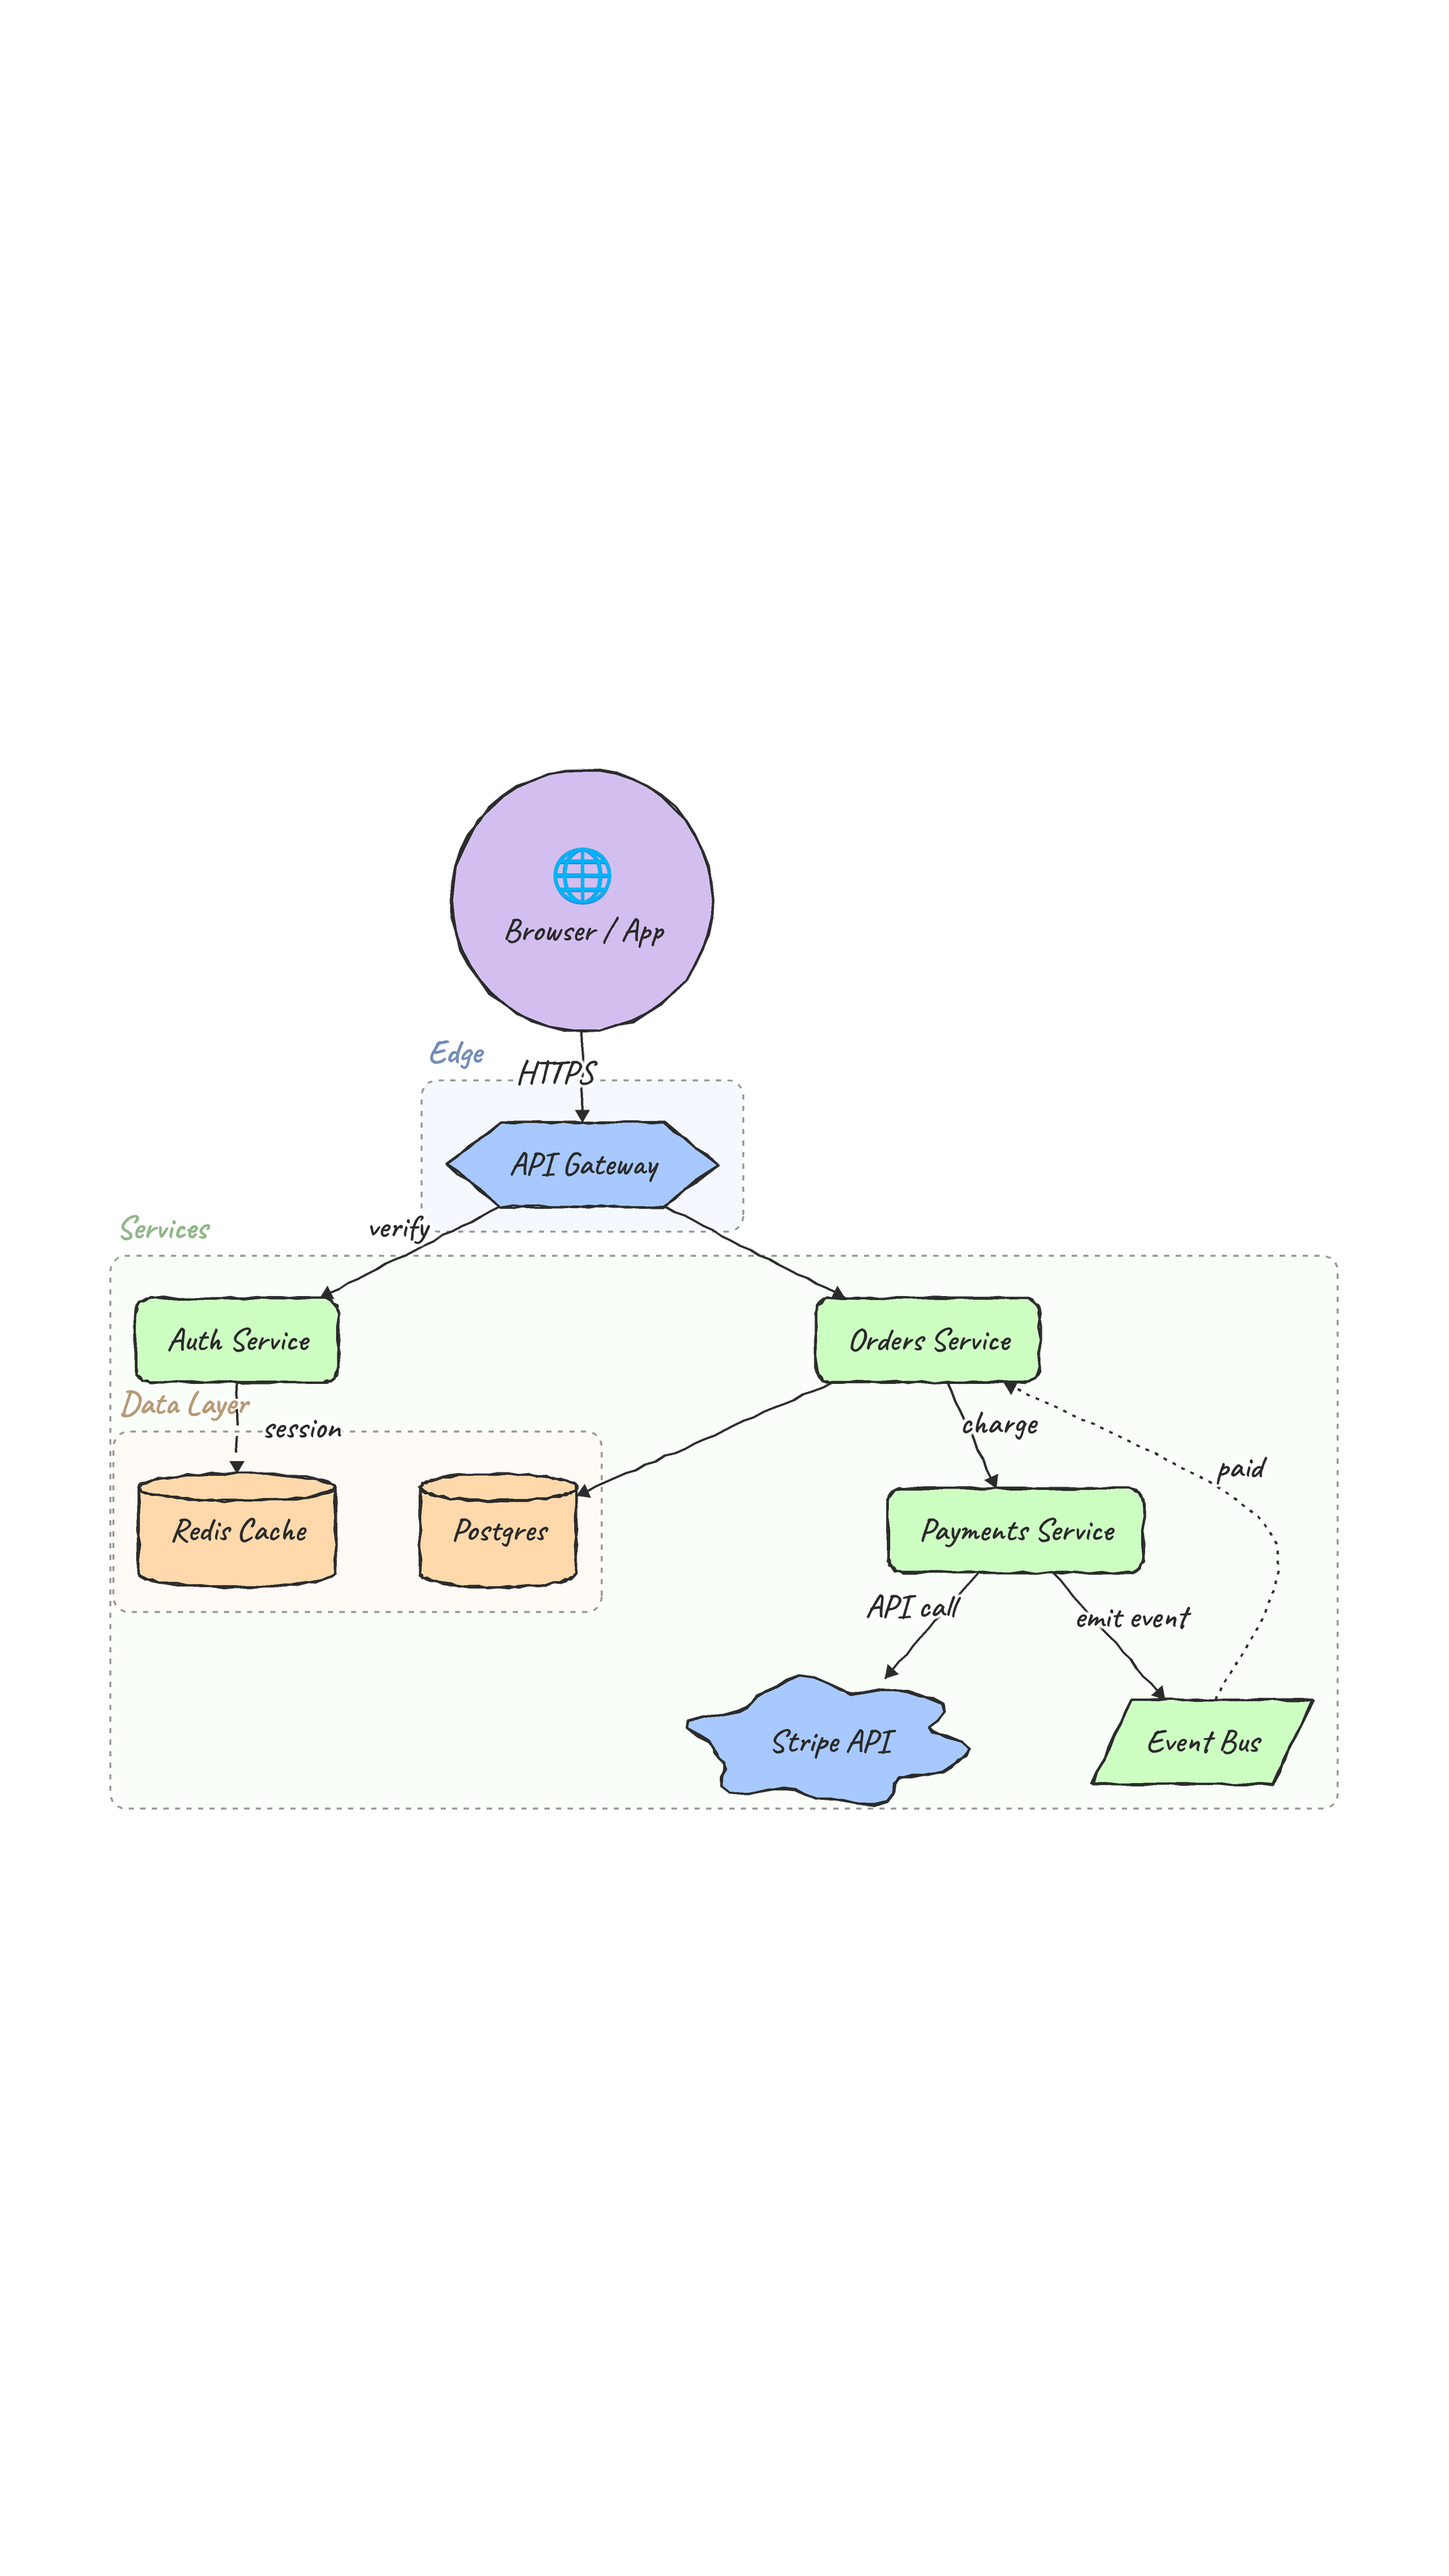
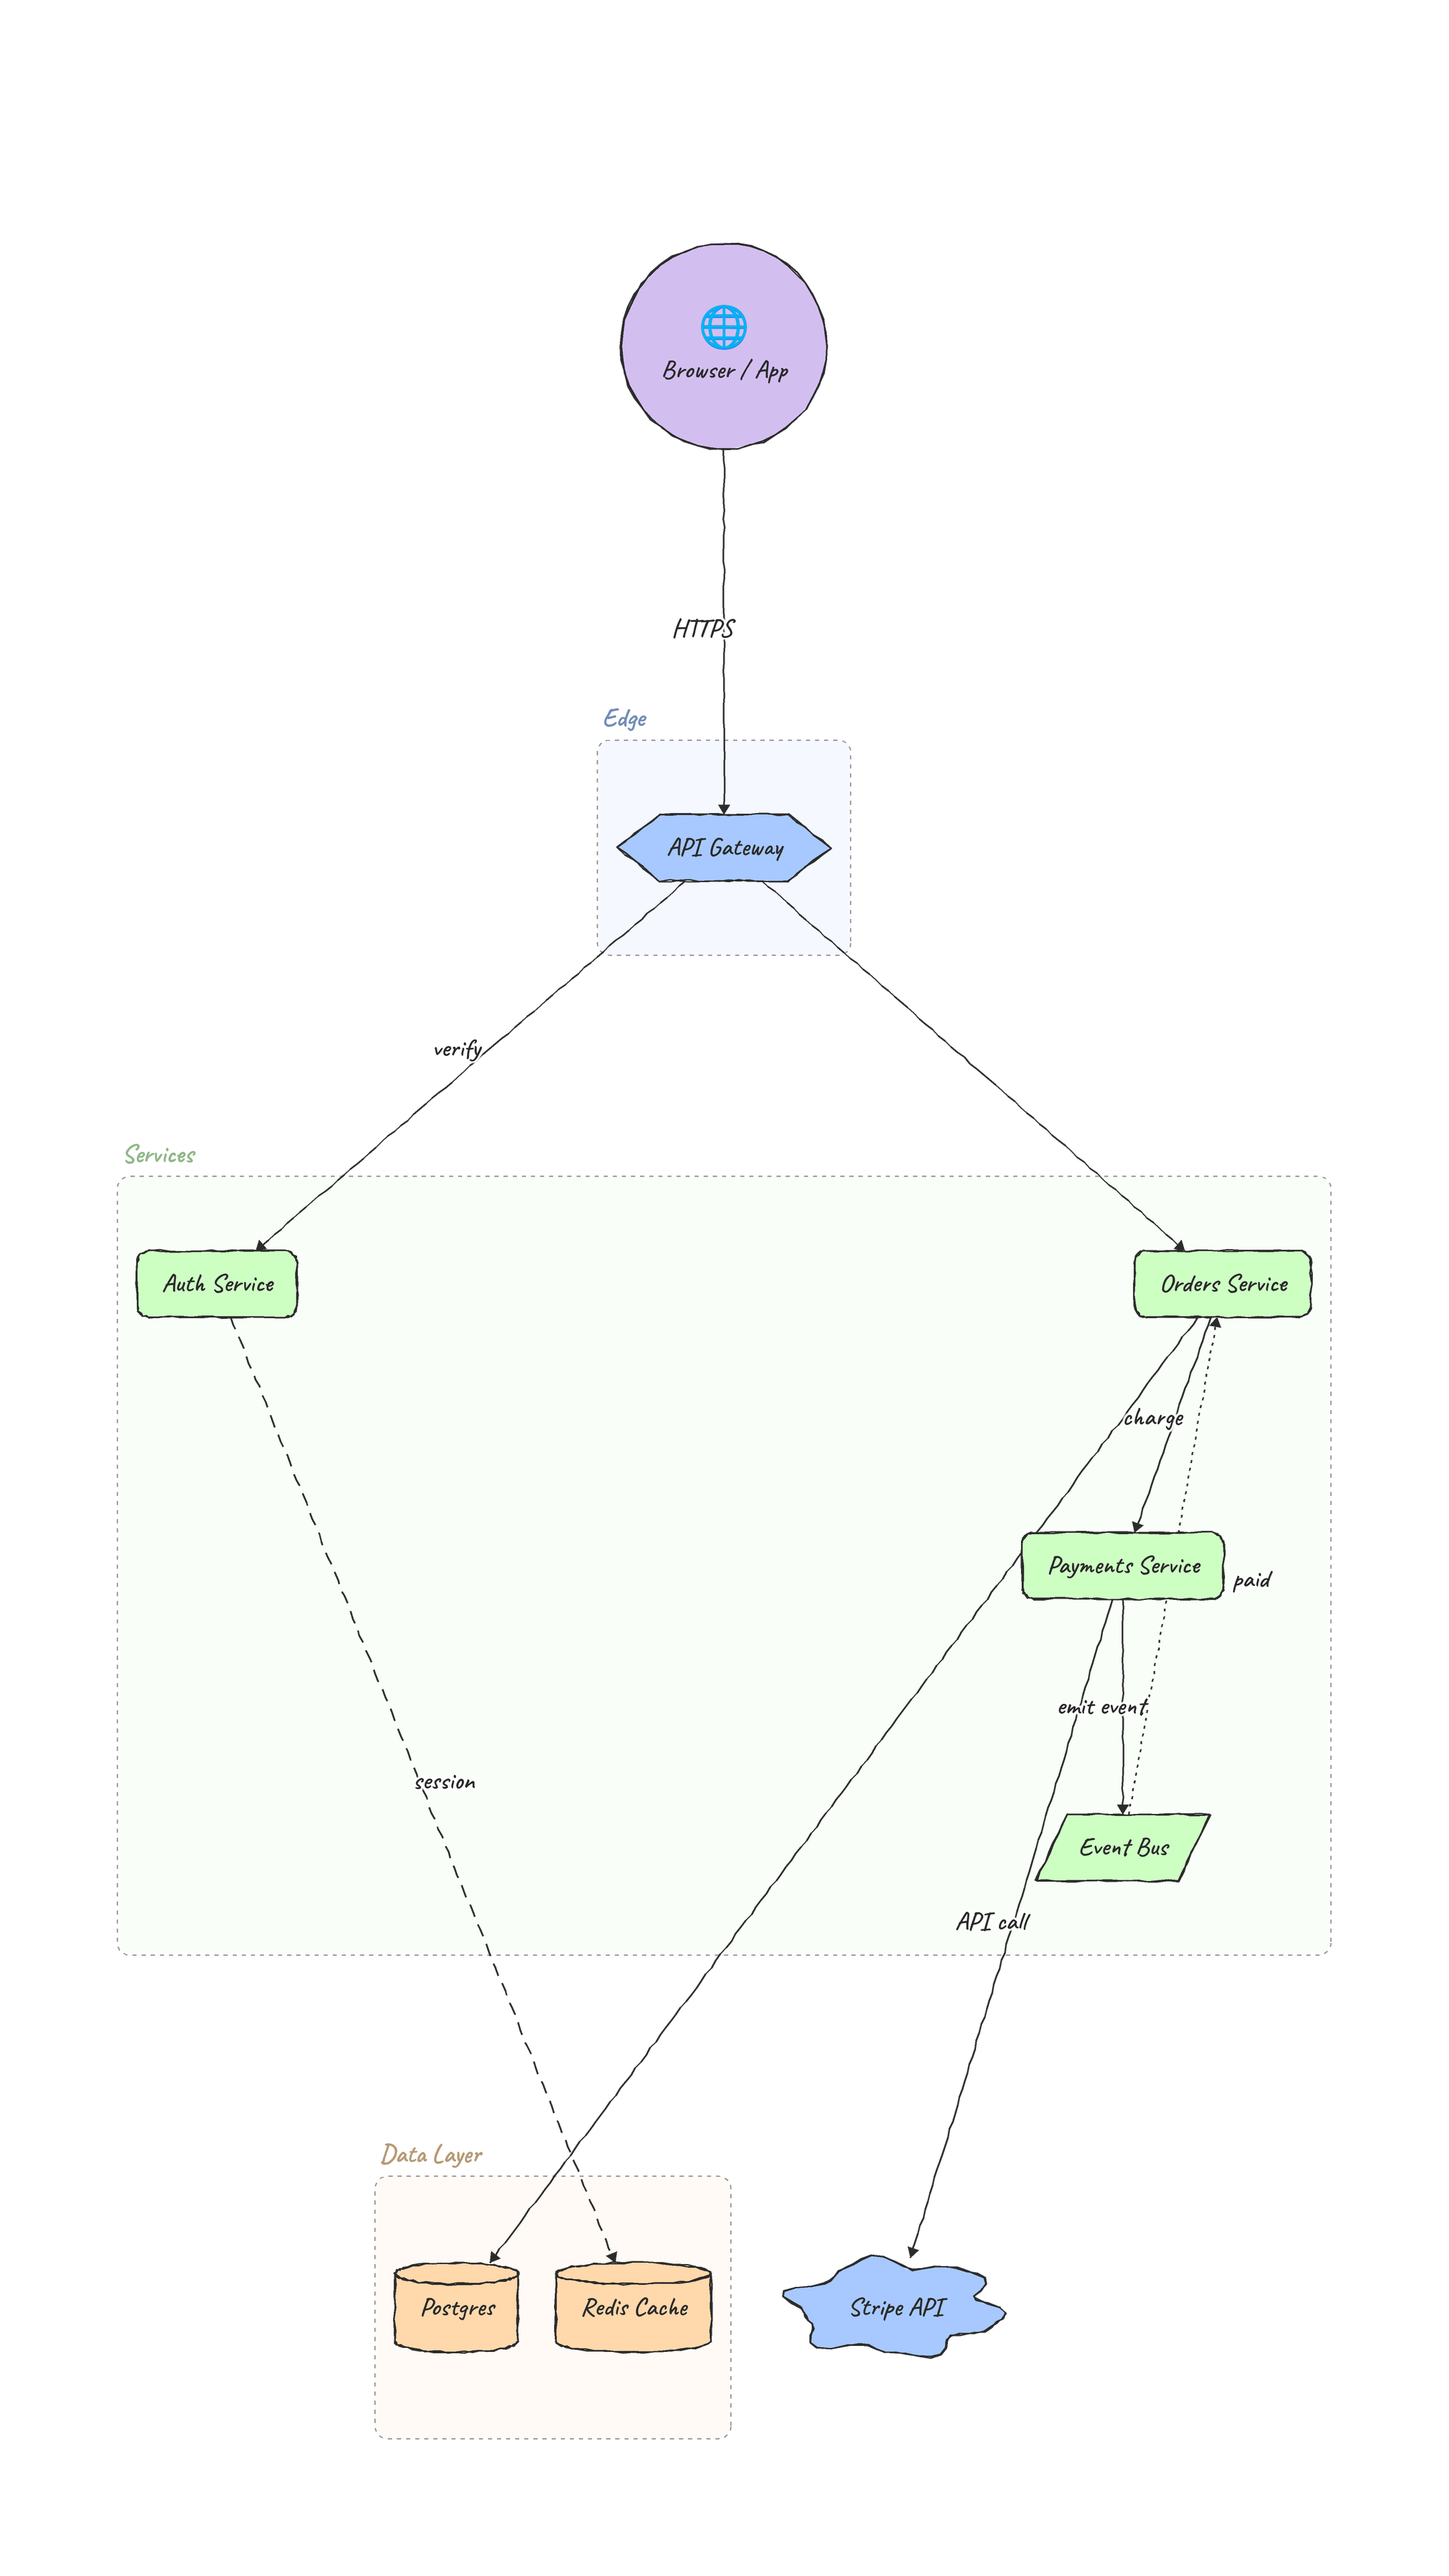
Nested-cluster layout and vertical-fill
- layout_clustered(): lay each group out as a self-contained unit, arrange
  the groups (as super-nodes) plus ungrouped nodes with the layered engine,
  then drop the group internals back in. Every cluster is now a fully
  disjoint highlight region instead of overlapping/nesting boxes.
- Vertical fill: when the frame is taller than the diagram needs, spread the
  rows along Y to use the full height instead of leaving slack.

Claude-Session: https://claude.ai/code/session_01PkQ793Mrcet6GuHUUkKXnM

diff --git a/flowblow/layout.py b/flowblow/layout.py
@@ -19,7 +19,7 @@ import re
 from dataclasses import dataclass, field
 from typing import Dict, List, Optional, Tuple
 
-from .models import Diagram, Direction, Shape
+from .models import Diagram, Direction, Edge, Node, Shape
 
 # ---------------------------------------------------------------------------
 # Tunable spacing constants (pixels)
@@ -555,3 +555,118 @@ def layout_diagram(diagram: Diagram, measure=None) -> Layout:
     eng.order_layers()
     eng.assign_cross()
     return eng.finalize()
+
+
+# ---------------------------------------------------------------------------
+# Nested-cluster layout: each group is laid out as a self-contained unit, the
+# groups (as super-nodes) + the ungrouped nodes are arranged together, then the
+# group internals are dropped back in. This makes every cluster a fully
+# disjoint region.
+# ---------------------------------------------------------------------------
+def _sublayout(diagram: Diagram, member_ids, sizes, node_by_id) -> Layout:
+    mset = set(member_ids)
+    nodes = [node_by_id[i] for i in member_ids]
+    edges = [e for e in diagram.edges if e.source in mset and e.target in mset]
+    sub = Diagram(nodes=nodes, edges=edges, groups=[],
+                  direction=diagram.direction, font_size=diagram.font_size)
+    return layout_diagram(sub, measure=lambda n, fs: sizes[n.id])
+
+
+def layout_clustered(diagram: Diagram, measure=None) -> Layout:
+    if measure is None:
+        def measure(n, fs):
+            w, h, _ = estimate_size(n.label, n.shape, fs, bool(n.icon))
+            return w, h
+
+    node_by_id = {n.id: n for n in diagram.nodes}
+    active = [g for g in diagram.groups
+              if any(n.group == g.id for n in diagram.nodes)]
+    if not active:
+        return layout_diagram(diagram, measure=measure)
+
+    sizes = {n.id: measure(n, diagram.font_size) for n in diagram.nodes}
+    members = {g.id: [n.id for n in diagram.nodes if n.group == g.id] for g in active}
+    grouped = {i for ids in members.values() for i in ids}
+    ungrouped = [n for n in diagram.nodes if n.id not in grouped]
+
+    # 1. lay each group out on its own
+    sub: Dict[str, Layout] = {}
+    gsize: Dict[str, Tuple[float, float]] = {}
+    for g in active:
+        s = _sublayout(diagram, members[g.id], sizes, node_by_id)
+        sub[g.id] = s
+        gsize[g.id] = (s.width + 2 * GROUP_PAD, s.height + 2 * GROUP_PAD)
+
+    # 2. arrange groups (as super-nodes) + ungrouped nodes
+    def rep(nid: str) -> str:
+        grp = node_by_id[nid].group
+        return f"__g_{grp}" if grp in members else nid
+
+    qnodes = [Node(id=f"__g_{g.id}", label=g.id) for g in active] + list(ungrouped)
+    qsize = {f"__g_{g.id}": gsize[g.id] for g in active}
+    qsize.update({n.id: sizes[n.id] for n in ungrouped})
+    seen, qedges = set(), []
+    for e in diagram.edges:
+        if e.source not in node_by_id or e.target not in node_by_id:
+            continue
+        a, b = rep(e.source), rep(e.target)
+        if a == b or (a, b) in seen:
+            continue
+        seen.add((a, b))
+        qedges.append(Edge(source=a, target=b))
+    quotient = Diagram(nodes=qnodes, edges=qedges, groups=[],
+                       direction=diagram.direction, font_size=diagram.font_size)
+    ql = layout_diagram(quotient, measure=lambda n, fs: qsize[n.id])
+
+    # 3. drop group internals back in, centred on their super-node
+    placed: Dict[str, PlacedNode] = {}
+    for g in active:
+        sup = ql.nodes[f"__g_{g.id}"]
+        s = sub[g.id]
+        ox, oy = sup.x - s.width / 2, sup.y - s.height / 2
+        for nid, pn in s.nodes.items():
+            placed[nid] = PlacedNode(id=nid, x=ox + pn.x, y=oy + pn.y,
+                                     w=pn.w, h=pn.h, lines=pn.lines)
+    for n in ungrouped:
+        if n.id in ql.nodes:
+            placed[n.id] = ql.nodes[n.id]
+
+    # 4. straight edges between real node centres
+    pedges: List[PlacedEdge] = []
+    for e in diagram.edges:
+        if e.source in placed and e.target in placed:
+            ps, pt = placed[e.source], placed[e.target]
+            pedges.append(PlacedEdge(source=e.source, target=e.target,
+                                     points=[(ps.x, ps.y), (pt.x, pt.y)], reversed=False))
+
+    # 5. group boxes from their (now contiguous) members
+    gplaced: List[PlacedGroup] = []
+    for g in active:
+        ids = [i for i in members[g.id] if i in placed]
+        if not ids:
+            continue
+        x0 = min(placed[i].x - placed[i].w / 2 for i in ids) - GROUP_PAD
+        y0 = min(placed[i].y - placed[i].h / 2 for i in ids) - GROUP_PAD
+        x1 = max(placed[i].x + placed[i].w / 2 for i in ids) + GROUP_PAD
+        y1 = max(placed[i].y + placed[i].h / 2 for i in ids) + GROUP_PAD
+        gplaced.append(PlacedGroup(id=g.id, x=x0, y=y0, w=x1 - x0, h=y1 - y0))
+
+    # 6. normalise to a positive canvas, leaving room above for group labels
+    label_room = diagram.font_size * 1.7
+    minx = min([p.x - p.w / 2 for p in placed.values()]
+               + [g.x for g in gplaced]) - MARGIN
+    miny = min([p.y - p.h / 2 for p in placed.values()]
+               + [g.y - label_room for g in gplaced]) - MARGIN
+    dx, dy = -minx, -miny
+    for p in placed.values():
+        p.x += dx
+        p.y += dy
+    for e in pedges:
+        e.points = [(x + dx, y + dy) for (x, y) in e.points]
+    for g in gplaced:
+        g.x += dx
+        g.y += dy
+    maxx = max([p.x + p.w / 2 for p in placed.values()] + [g.x + g.w for g in gplaced])
+    maxy = max([p.y + p.h / 2 for p in placed.values()] + [g.y + g.h for g in gplaced])
+    return Layout(width=maxx + MARGIN, height=maxy + MARGIN,
+                  nodes=placed, edges=pedges, groups=gplaced)

diff --git a/flowblow/raster.py b/flowblow/raster.py
@@ -15,7 +15,7 @@ from typing import List, Optional, Sequence, Tuple
 from PIL import Image, ImageDraw, ImageFilter
 
 from .content import Block, get_font, layout_block, render_emoji
-from .layout import PlacedNode, layout_diagram
+from .layout import PlacedNode, layout_clustered, layout_diagram
 from .mathtex import render_math
 from .models import Diagram, Direction, EdgeStyle, Shape
 
@@ -598,6 +598,21 @@ _ROTATE = {Direction.TB: Direction.LR, Direction.LR: Direction.TB,
            Direction.BT: Direction.RL, Direction.RL: Direction.BT}
 
 
+def _stretch_vertical(layout, factor: float, top: float = 0.0) -> None:
+    """Spread everything out along Y by ``factor`` (node sizes unchanged) so a
+    short diagram fills the vertical length of a tall frame."""
+    def sy(y):
+        return top + (y - top) * factor
+    for pn in layout.nodes.values():
+        pn.y = sy(pn.y)
+    for e in layout.edges:
+        e.points = [(x, sy(y)) for (x, y) in e.points]
+    for g in layout.groups:
+        y0, y1 = sy(g.y), sy(g.y + g.h)
+        g.y, g.h = y0, y1 - y0
+    layout.height = sy(layout.height)
+
+
 def _scene_size(layout, title_block, fs):
     top = (title_block.h + fs * 1.1) if title_block else 0.0
     scene_w = max(layout.width, title_block.w if title_block else 0)
@@ -633,7 +648,7 @@ def render_png_bytes(diagram: Diagram, width: int = 1080, height: int = 1920,
     best = None
     for direction in candidates:
         diagram.direction = direction
-        cand_layout = layout_diagram(diagram, measure=measure)
+        cand_layout = layout_clustered(diagram, measure=measure)
         sw, sh, top = _scene_size(cand_layout, title_block, fs)
         cand_fit = min((fw - 2 * pad) / sw, (fh - 2 * pad) / sh)
         if best is None or cand_fit > best[0] + 1e-9:
@@ -641,10 +656,23 @@ def render_png_bytes(diagram: Diagram, width: int = 1080, height: int = 1920,
 
     fit, chosen, layout, scene_w, scene_h, top = best
     diagram.direction = chosen
-    diagram_ox = (scene_w - layout.width) / 2
 
     # extra margin so bowed arcs / floated labels never clip at the edge
     B = fs * 1.9
+
+    # Use the full vertical length: if the frame is taller than the diagram
+    # needs (width is the binding dimension), spread the rows vertically to
+    # fill the height instead of leaving slack.
+    fit_w = (fw - 2 * pad) / (scene_w + 2 * B)
+    fit_h = (fh - 2 * pad) / (scene_h + 2 * B)
+    if fit_h > fit_w * 1.02:
+        target_h = (fh - 2 * pad) / fit_w - 2 * B
+        factor = min(target_h / scene_h, 2.4)
+        if factor > 1.0:
+            _stretch_vertical(layout, factor)
+            scene_w, scene_h, top = _scene_size(layout, title_block, fs)
+
+    diagram_ox = (scene_w - layout.width) / 2
     total_w, total_h = scene_w + 2 * B, scene_h + 2 * B
     fit = min((fw - 2 * pad) / total_w, (fh - 2 * pad) / total_h)
 
